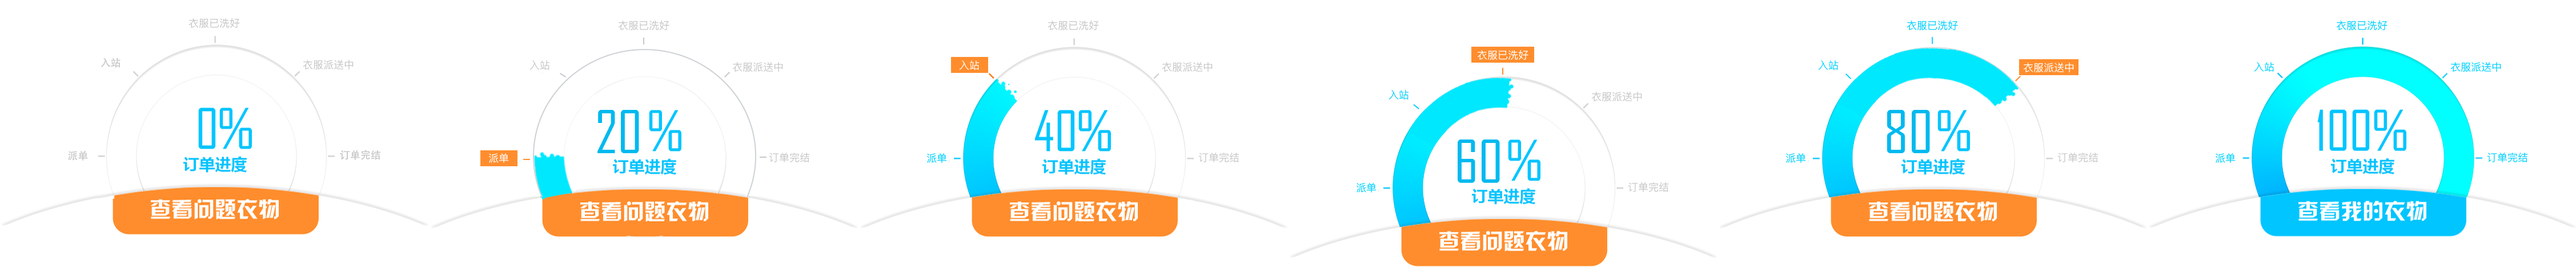
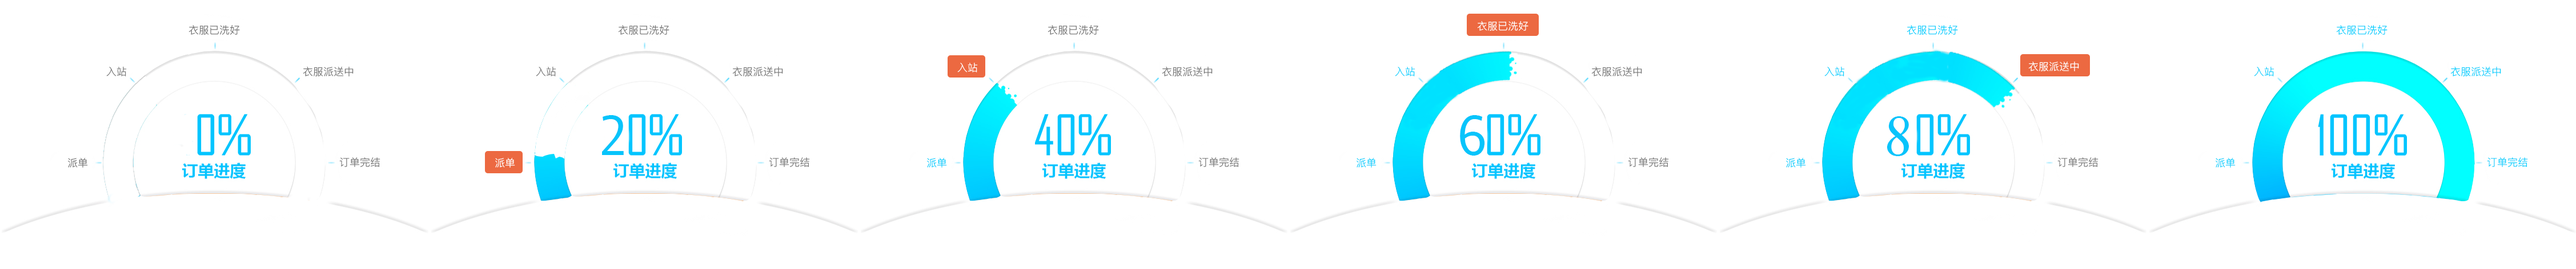
1.协议尺寸更改 2.订单详情新增查看问题衣物功能

diff --git a/src/components/orders/order-details/order-details.vue b/src/components/orders/order-details/order-details.vue
@@ -3,7 +3,9 @@
     <scroll>
       <div>
 
-        <div class="laundry-progress" :style="bgPosition" v-if="isLaundryProgress"></div>
+        <div class="laundry-progress" :style="bgPosition" v-if="isLaundryProgress">
+          <div :class="['clothes-location',clothesText]"  @click="toClothesDetails"></div>
+        </div>
         <mall-progress class="mall-progress"
                        :progress="mallProgress"
                        v-else></mall-progress>
@@ -30,6 +32,7 @@
       </div>
     </scroll>
     <b-button :content="buttonContent" @buttonClick="buttonClick"></b-button>
+    <router-view></router-view>
   </div>
 </template>
 
@@ -106,6 +109,9 @@
 
         }
       },
+      clothesText(){
+         return this.obj.status===5?'complete':'problem';
+      },
       bgPosition(){  //(0, 新订单)(1,已派订单)(2,已收订单)(3,入站订单)(4,上挂订单)(7,送还订单)(5,完结订单)(6,取消订单);
         switch (this.obj.status) {
           case 0:
@@ -144,6 +150,16 @@
       ])
     },
     methods: {
+      toClothesDetails(){
+          let result=this.orderSelectItem.items.some((item)=>{
+              if(item.problemImage!=null){
+                this.$router.push('/orders/details/clothesdetails');
+                return true;
+              }
+          })
+        if(!result)this.$msg.setShow('暂无问题衣物');
+
+      },
       judgeType(id){
         let type = id.slice(-3);
         switch (type) {
@@ -229,10 +245,25 @@
     right: 0;
     background: $color-background-d;
     .laundry-progress {
+      position: relative;
       width: 10rem;
       height: px2rem(457);
       @include bg-image('./laundry-img');
       background-size: px2rem(4500) px2rem(457);
+      .clothes-location{
+        position: absolute;
+        top: px2rem(326);
+        left: px2rem(195);
+        width: px2rem(361);
+        height: px2rem(82);
+        background-size: px2rem(361) px2rem(82);
+        &.problem{
+          @include bg-image('./problem-text');
+        }
+        &.complete{
+          @include bg-image('./complete-text');
+        }
+      }
     }
     .mall-progress {
       margin-top: px2rem(40);

diff --git a/src/components/orders/clothes-details/clothes-details.vue b/src/components/orders/clothes-details/clothes-details.vue
@@ -1,0 +1,76 @@
+<template>
+
+  <div class="clothes-details">
+
+    <scroll :data="orderSelectItem">
+      <div>
+        <div class="detail-container" v-for="item in orderSelectItem.items" v-if="item.problemImage">
+          <div class="result-box">衣物名称：<span v-text="item.laundryProduct.name"></span></div>
+          <div class="result-box">衣服瑕疵：<span v-text="item.flaw"></span></div>
+          <div class="result-box">洗后效果：<span v-text="item.washingEffect"></span></div>
+          入站照片：
+          <div class="img-result">
+            <img :src="imgUrl"  v-for="imgUrl in spliceImgUrl(item.problemImage)" />
+          </div>
+        </div>
+      </div>
+    </scroll>
+
+  </div>
+
+</template>
+
+
+<script>
+  import {mapGetters} from 'vuex';
+  import Scroll from 'base/scroll/scroll';
+  import {imgUrlMixin} from 'common/js/mixin';
+  export default {
+    mixins:[imgUrlMixin],
+    components: {
+      Scroll
+    },
+    computed: {
+      ...mapGetters([
+        'orderSelectItem'
+      ])
+    }
+  }
+</script>
+
+
+<style lang="scss" rel="stylesheet/scss" scoped>
+  @import "~common/css/mixin";
+  @import "~common/css/variable";
+
+  .clothes-details {
+    position: fixed;
+    top: 0;
+    bottom: 0;
+    left: 0;
+    right: 0;
+    background: $color-background-d;
+    .detail-container {
+      background: #EFF0F5;
+      @include font(2);
+      font-weight: 500;
+      color: #000;
+      margin-bottom: px2rem(25);
+      padding: px2rem(28) px2rem(12);
+      .result-box {
+        font-weight: 500;
+        margin-bottom: px2rem(24);
+        span {
+          font-weight: 500;
+        }
+      }
+      .img-result {
+        img {
+          width: px2rem(350);
+          height: px2rem(330);
+          margin-top: px2rem(18);
+        }
+      }
+    }
+  }
+</style>

diff --git a/src/base/alert-box/alert-box.vue b/src/base/alert-box/alert-box.vue
@@ -81,7 +81,7 @@
     overflow-y: auto;
     .protocol {
       width: px2rem(682);
-      height: px2rem(1127);
+      height: px2rem(1027);
       border-radius: px2rem(8);
       background: #fff;
       margin-top: px2rem(40);
@@ -95,17 +95,18 @@
         font-weight: 500;
         color: #000;
         border-bottom: px2rem(3) solid $color-line;
+        box-sizing: border-box;
       }
       .content-container {
         width: px2rem(600);
-        height: px2rem(841);
+        height: px2rem(741);
         padding: px2rem(36) px2rem(41);
         text-align: justify;
       }
       .button-container {
         display: flex;
         width: 100%;
-        height: px2rem(106);
+        height: px2rem(107);
         span {
           display: flex;
           flex-direction: column;

diff --git a/src/router/index.js b/src/router/index.js
@@ -44,7 +44,9 @@ let constantRouterMap = [
     {name:'rechargePay',path:':balance',component: _import('recharge/pay/pay')}
   ]},
   {path: '/orders', component: _import('orders/index/index'),children:[
-    {path:'details',component:_import('orders/order-details/order-details')},
+    {path:'details',component:_import('orders/order-details/order-details'),children:[
+      {path:'clothesdetails',component:_import('orders/clothes-details/clothes-details')}
+    ]},
     {name:'orders-payChose',path:'payChose:id',component:_import('home/pay-chose/pay-chose')}
   ]},
   {path: '/my', component: _import('my/index/index'), children: [

diff --git a/src/components/my/index/index.vue b/src/components/my/index/index.vue
@@ -16,11 +16,8 @@
   import Tab from 'components/my/tab/tab'
   import Scroll from 'base/scroll/scroll'
   export default {
-    data(){
-      return {}
-    },
     components: {
-        Tab,
+      Tab,
       Scroll
     }
   }
